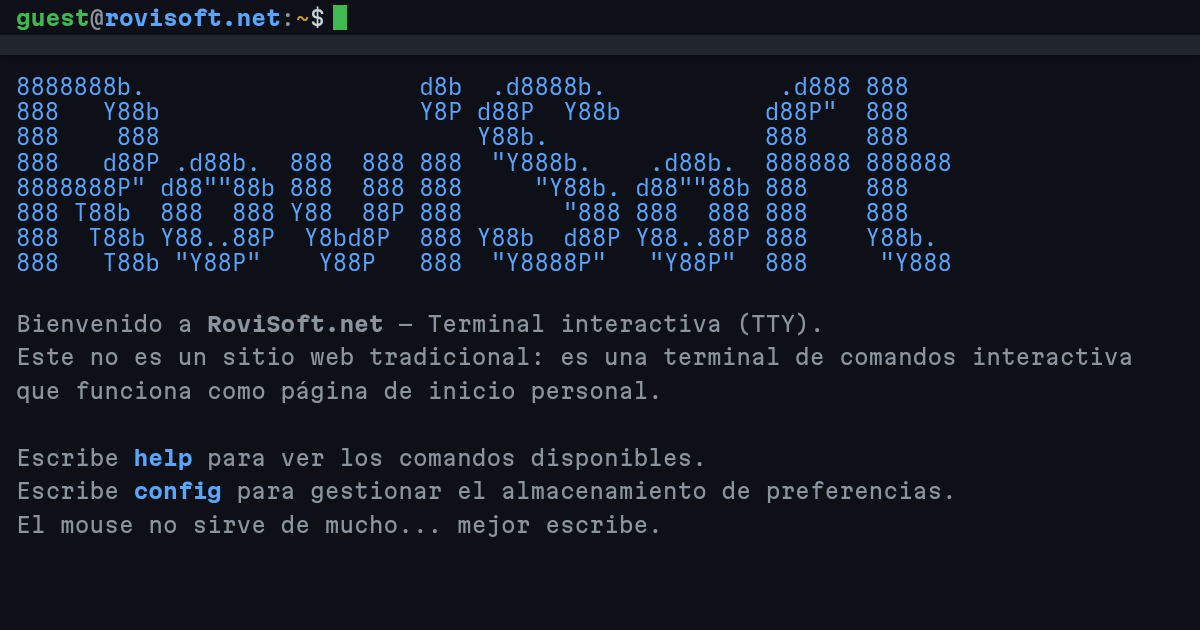
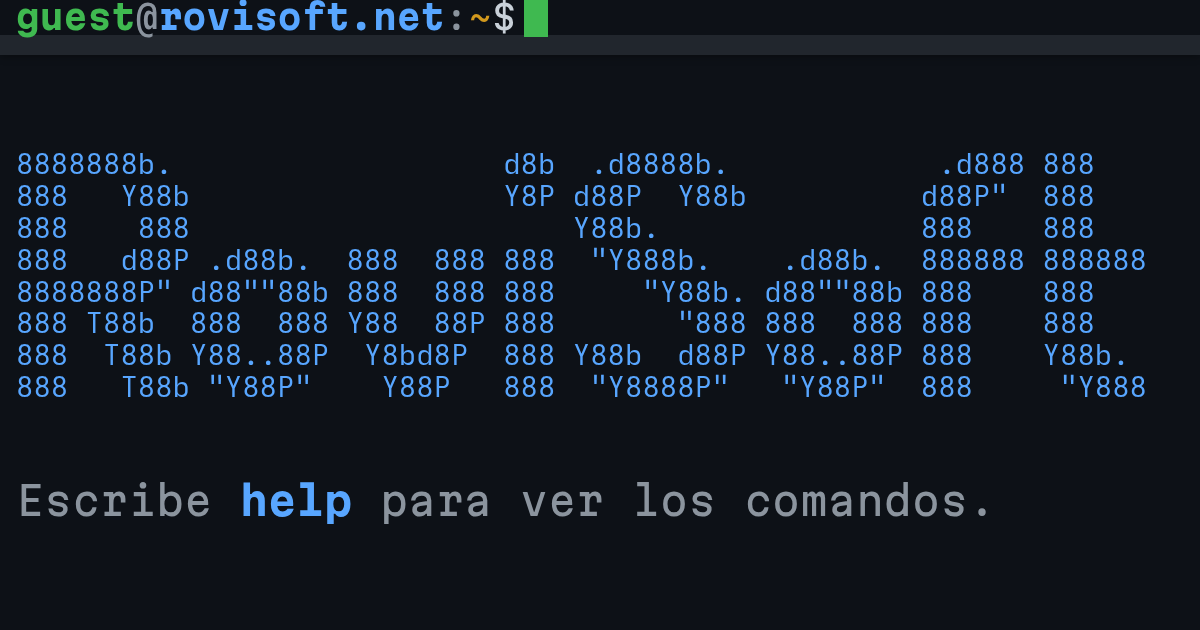
Release 1.14.1: clearer link preview (#4)
- fix: shorten the link preview and enlarge its image for 1.14.1

Changed region(s): [[0.0, 0.1206, 0.9558, 0.6333], [0.0, 0.6937, 0.8017, 0.8444], [0.0, 0.0, 0.4625, 0.0603]]

diff --git a/src/index.html b/src/index.html
@@ -8,7 +8,7 @@
     />
     <meta
       name="description"
-      content="RoviSoft.net — No es un sitio web tradicional: es una terminal de comandos interactiva (TTY) que funciona como página de inicio personal."
+      content="Terminal interactiva de Israel Roldán: proyectos, skills e investigación en IA. Escribe help."
     />
     <meta name="theme-color" content="#0d1117" />
     <meta name="color-scheme" content="dark" />
@@ -17,13 +17,10 @@
     <meta property="og:type" content="website" />
     <meta property="og:url" content="https://rovisoft.net/" />
     <meta property="og:site_name" content="RoviSoft.net" />
-    <meta
-      property="og:title"
-      content="RoviSoft.net — Terminal interactiva (TTY)"
-    />
+    <meta property="og:title" content="RoviSoft.net — Terminal interactiva" />
     <meta
       property="og:description"
-      content="No es un sitio web tradicional: es una terminal de comandos interactiva que funciona como página de inicio personal."
+      content="Terminal interactiva de Israel Roldán: proyectos, skills e investigación en IA. Escribe help."
     />
     <meta property="og:locale" content="es_MX" />
     <meta property="og:locale:alternate" content="en_US" />
@@ -33,7 +30,7 @@
     <meta property="og:image:height" content="630" />
     <meta
       property="og:image:alt"
-      content="Terminal de RoviSoft.net con el banner ASCII y el mensaje de bienvenida"
+      content="Terminal de RoviSoft.net con el banner ASCII y la indicación: escribe help para ver los comandos"
     />
     <meta name="twitter:card" content="summary_large_image" />
     <meta name="twitter:site" content="@IsraelAlbert_RV" />
@@ -530,8 +527,8 @@
         } catch (e) {}
       })();
     </script>
-    <script defer src="storage.js?v=1.14.0"></script>
-    <script defer src="main.js?v=1.14.0"></script>
+    <script defer src="storage.js?v=1.14.1"></script>
+    <script defer src="main.js?v=1.14.1"></script>
   </head>
   <body>
     <div class="terminal" id="terminal">

diff --git a/src/main.js b/src/main.js
@@ -25,7 +25,7 @@
 
   // ─── State ────────────────────────────────────────────────
 
-  const VERSION = "1.14.0";
+  const VERSION = "1.14.1";
   const MAX_HISTORY = 1000;
 
   let sessionStartTime = Date.now();

diff --git a/CHANGELOG.md b/CHANGELOG.md
@@ -8,6 +8,15 @@ The `## [X.Y.Z]` section of a version is the body of its GitHub Release.
 
 ## [Unreleased]
 
+## [1.14.1] - 2026-11-24
+
+### Changed
+
+- Link preview: a shorter title and a description that says whose site it
+  is and what it holds, so no network cuts the important part.
+- `og-image.png` shows only the banner and the `help` hint, large enough to
+  read in a small card.
+
 ## [1.14.0] - 2026-11-24
 
 ### Added
@@ -68,5 +77,6 @@ The `## [X.Y.Z]` section of a version is the body of its GitHub Release.
 First version recorded in this changelog. See the git history for the
 earlier development of the terminal.
 
-[Unreleased]: https://github.com/airvzxf/rovisoft-web/compare/v1.14.0...HEAD
+[Unreleased]: https://github.com/airvzxf/rovisoft-web/compare/v1.14.1...HEAD
+[1.14.1]: https://github.com/airvzxf/rovisoft-web/compare/v1.14.0...v1.14.1
 [1.14.0]: https://github.com/airvzxf/rovisoft-web/releases/tag/v1.14.0

diff --git a/README.md b/README.md
@@ -136,7 +136,7 @@ The site is hosted on **Cloudflare Pages**. Every push to `main` publishes the `
 
 ## Version
 
-**1.14.0** — Type `version` in the terminal for the current version.
+**1.14.1** — Type `version` in the terminal for the current version.
 
 ## License
 
